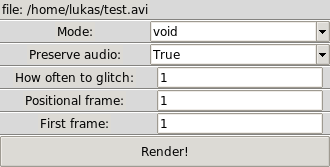
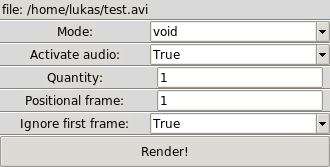
Minor improvements

diff --git a/src/tomamosh.py b/src/tomamosh.py
@@ -5,7 +5,7 @@ from tkinter import ttk as ttk
 
 modes = ("void", "random", "bloom", "reverse",
          "invert", "pulse", "jiggle", "overlap")
-audios = ("True", "False")
+truths = ("True", "False")
 
 
 def render():
@@ -14,7 +14,12 @@ def render():
     else:
         audio = 1
 
-    glitchify(filein, mode_var.get(), audio, int(frame_entry.get()),
+        if frame_var.get() == "False":
+            frame = 0
+        else:
+            frame = 1
+
+    glitchify(filein, mode_var.get(), audio, frame,
               int(count_entry.get()), int(posit_entry.get()))
     root.destroy()
 
@@ -30,17 +35,17 @@ def create_options_selector():
     ttk.Separator(root, orient=HORIZONTAL).grid(
         row=3, column=0, columnspan=4, sticky="ew")
 
-    audio_title = ttk.Label(root, text="Preserve audio:").grid(row=4, column=0)
+    audio_title = ttk.Label(root, text="Activate audio:").grid(row=4, column=0)
     audio_menu = ttk.Combobox(root, textvariable=audio_var)
-    audio_menu['values'] = audios
+    audio_menu['values'] = truths
 
     ttk.Separator(root, orient=HORIZONTAL).grid(
         row=5, column=0, columnspan=4, sticky="ew")
     audio_menu.grid(row=4, column=1)
 
-    ttk.Label(root, text="How often to glitch:").grid(row=6, column=0)
+    ttk.Label(root, text="Quantity:").grid(row=6, column=0)
     ttk.Label(root, text="Positional frame:").grid(row=8, column=0)
-    ttk.Label(root, text="First frame:").grid(row=10, column=0)
+    ttk.Label(root, text="Ignore first frame:").grid(row=10, column=0)
 
     ttk.Separator(root, orient=HORIZONTAL).grid(
         row=7, column=0, columnspan=4, sticky="ew")
@@ -55,15 +60,15 @@ def create_options_selector():
 
     count_entry = ttk.Entry(root)
     posit_entry = ttk.Entry(root)
-    frame_entry = ttk.Entry(root)
+    frame_menu = ttk.Combobox(root, textvariable=frame_var)
+    frame_menu['values'] = truths
 
     count_entry.grid(row=6, column=1)
     posit_entry.grid(row=8, column=1)
-    frame_entry.grid(row=10, column=1)
+    frame_menu.grid(row=10, column=1)
 
     count_entry.insert(10, "1")
     posit_entry.insert(10, "1")
-    frame_entry.insert(10, "1")
 
     rend_btn = ttk.Button(root, text="Render!", command=render)
     rend_btn.grid(row=17, column=0, sticky="ew", columnspan=4)
@@ -94,8 +99,10 @@ else:
     s.theme_use('default')
 mode_var = StringVar(root)
 audio_var = StringVar(root)
+frame_var = StringVar(root)
 mode_var.set("void")
 audio_var.set("True")
+frame_var.set("True")
 root.grid_rowconfigure(0, weight=1)
 root.grid_columnconfigure(0, weight=1)
 up_btn = ttk.Button(root, text="Select AVI file", command=select_file)

diff --git a/src/tomato/tomato.py b/src/tomato/tomato.py
@@ -127,11 +127,6 @@ def glitchify(filein, mode, audio=0, firstframe=1, countframes=1, positframes=1,
                 final.append(x)
                 j = j + 1
 
-    elif mode == "jiggle":
-        amount = int(positframes)
-        final = [clean[constrain(
-            x+int(random.gauss(0, amount)), 0, len(clean)-1)] for x in range(0, len(clean))]
-
     elif mode == "overlap":
         pulselen = int(countframes)
         pulseryt = int(positframes)

diff --git a/README.md b/README.md
@@ -17,9 +17,10 @@ cd tomamosh
 3. Navigate to `src` directory and run `tomamosh.py` with python
 
 ## Usage
-1. A window with a button "Select AVI file" will appear, click the button
+1. A window with a button **Select AVI file** will appear, click the button
 2. You will be prompted to select avi file
-3. A window with options will appear: <br><br>
+3. A window with options will appear
+4. Change options to desired state and press **Render !**
 ![preview image](https://github.com/LukasDrsman/tomamosh/blob/master/assets/preview.png)
 
 ### Mode:
@@ -28,7 +29,6 @@ cd tomamosh
 - `reverse` - reverse frame order
 - `invert` - switches each consecutive frame witch each other
 - `bloom` - duplicates positional frame number n times
-- `pulse` - duplicates groups of positional frames n times 
-- `overlapped` - copy group of `c` frames taken from every `n`th position
-- `jiggle` - take frame from around current position. `n` parameter is spread size [broken]
- 
+- `pulse` - duplicates groups of positional frames n times
+- `overlapped` - copy group of positional frames taken from every nth position
+\*n refers to the number in **Quantity** option
